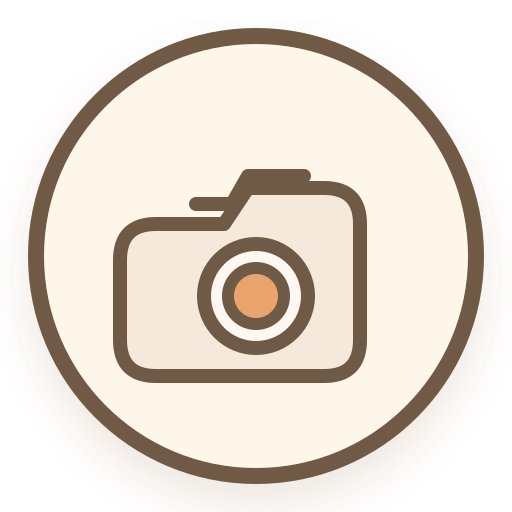
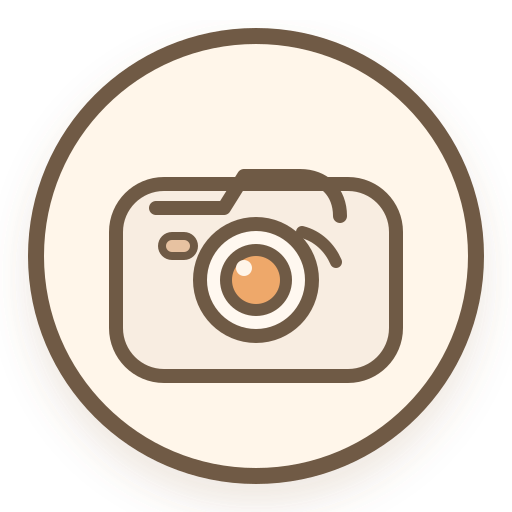
design: 카메라 아이콘과 탭 배경 수정

Changed region(s): [[0.1875, 0.3125, 0.8125, 0.75]]

diff --git a/scripts/generate-sudal-icons.ts b/scripts/generate-sudal-icons.ts
@@ -143,10 +143,13 @@ const ingredientIcons: Record<string, string> = {
     <path d="M102 148c8 8 14 10 26 10 10 0 16-2 26-10" fill="none" stroke="#fff1df" stroke-width="7" stroke-linecap="round"/>
   `),
   camera: badge(`
-    <path d="M78 112h34l12-18h38c12 0 18 6 18 18v58c0 12-6 18-18 18H78c-12 0-18-6-18-18v-40c0-12 6-18 18-18z" fill="#f6e9dc" stroke="#6f5a45" stroke-width="7" stroke-linejoin="round"/>
-    <circle cx="128" cy="148" r="26" fill="#fff8f2" stroke="#6f5a45" stroke-width="7"/>
-    <circle cx="128" cy="148" r="14" fill="#e8a46b" stroke="#6f5a45" stroke-width="6"/>
-    <path d="M98 102h18l8-14h28" fill="none" stroke="#6f5a45" stroke-width="7" stroke-linecap="round" stroke-linejoin="round"/>
+    <rect x="58" y="92" width="140" height="96" rx="24" fill="#f8ede1" stroke="#6f5a45" stroke-width="7"/>
+    <path d="M78 104h34l10-16h28c12 0 20 8 20 20" fill="none" stroke="#6f5a45" stroke-width="7" stroke-linecap="round" stroke-linejoin="round"/>
+    <rect x="81" y="118" width="16" height="10" rx="5" fill="#e7c2a1" stroke="#6f5a45" stroke-width="4"/>
+    <circle cx="128" cy="140" r="28" fill="#fff8f0" stroke="#6f5a45" stroke-width="7"/>
+    <circle cx="128" cy="140" r="15" fill="#eea86a" stroke="#6f5a45" stroke-width="6"/>
+    <circle cx="122" cy="134" r="4" fill="#fff5e9"/>
+    <path d="M151 116c8 2 14 8 17 15" fill="none" stroke="#6f5a45" stroke-width="6" stroke-linecap="round"/>
   `),
 }
 

diff --git a/src/App.css b/src/App.css
@@ -1263,7 +1263,7 @@
 }
 
 .tab-bar button.active .tab-label {
-  background: color-mix(in srgb, #dff1cf 60%, transparent);
+  background: rgba(223, 241, 207, 0.6);
 }
 
 .toast {